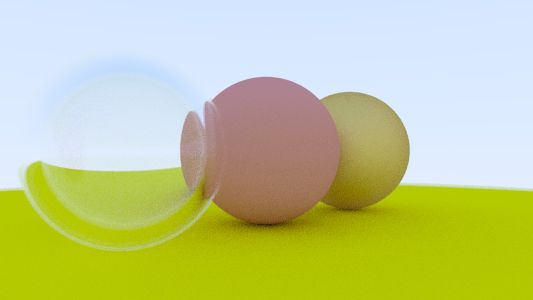
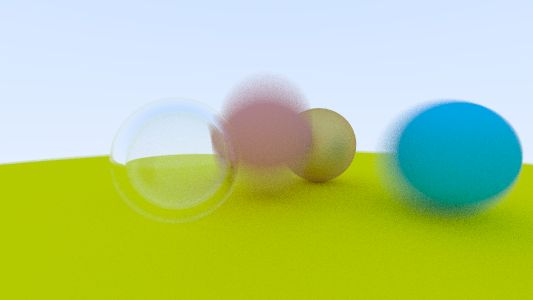
add moving sphere

diff --git a/nextweek/include/material.hpp b/nextweek/include/material.hpp
@@ -4,21 +4,27 @@
 #include "ray.hpp"
 #include "Color.hpp"
 
+#include <memory>
+
+using std::shared_ptr;
+
 struct scatter_info {
     const point3d scatter_point;
     const vec3d scatter_point_nm;
     const vec3d cast_ray_dir;
+    double ray_in_time;
+    
     Ray scatter_ray;
 
-    scatter_info(const point3d& p, const vec3d& nm, const vec3d& dir) noexcept
-    : scatter_point(p), scatter_point_nm(nm), cast_ray_dir(dir) {}
+    scatter_info(const point3d& p, const vec3d& nm, const vec3d& dir, const double t) noexcept
+    : scatter_point(p), scatter_point_nm(nm), cast_ray_dir(dir), ray_in_time(t) {}
 };
 
 struct dielectrics_scatter_info : scatter_info {
     const double refraction_ratio;
 
-    dielectrics_scatter_info(const point3d& p, const vec3d& nm, const vec3d& dir, const double rr) noexcept
-    : scatter_info(p, nm, dir), refraction_ratio(rr) {}
+    dielectrics_scatter_info(const point3d& p, const vec3d& nm, const vec3d& dir, const double t, const double rr) noexcept
+    : scatter_info(p, nm, dir, t), refraction_ratio(rr) {}
 };
 
 class Material {
@@ -27,14 +33,14 @@ protected:
 public:
     Material() = default;
     Material(Color a_c) noexcept : attenuation_coef(a_c) {}
-    virtual bool scatter(scatter_info* info) const = 0;
+    virtual bool scatter(shared_ptr<scatter_info>& info) const = 0;
     Color get_color_attenuation_coef() const { return attenuation_coef; }
 };
 
 class Lambertian : public Material {
 public:
     Lambertian(Color a_c) noexcept : Material(a_c) {}
-    bool scatter(scatter_info* info) const override {
+    bool scatter(shared_ptr<scatter_info>& info) const override {
         // one week 中 An Alternative Diffuse Formulation 说明正确的漫反射反射光线的方向是通过随机生成半球的方向得到，
         // 这里使用法线与随机单位球方向的向量和的方向近似，可能生成反正光线方向的概率不相同，不过个人感觉影响不大
         // vec3d diffuse_ray_dir = get_random_vec3d_in_hemisphere();
@@ -42,7 +48,7 @@ public:
         // 0向量特殊处理
         if (diffuse_ray_dir.is_zero_vec()) diffuse_ray_dir = info->scatter_point_nm;
         else diffuse_ray_dir.normalized();
-        info->scatter_ray = Ray(info->scatter_point, diffuse_ray_dir);
+        info->scatter_ray = Ray(info->scatter_point, diffuse_ray_dir, info->ray_in_time);
         return true;
     }
 };
@@ -51,10 +57,10 @@ class Metal : public Material {
     double fuzz;
 public:
     Metal(Color a_c, double fuzz_ = 0.) noexcept : Material(a_c), fuzz(fuzz_) {}
-    bool scatter(scatter_info* info) const override {
+    bool scatter(shared_ptr<scatter_info>& info) const override {
         vec3d reflect_ray_dir = info->cast_ray_dir - info->scatter_point_nm * 2 * dot(info->cast_ray_dir, info->scatter_point_nm);
         vec3d fuzzy_dir = reflect_ray_dir + get_random_vec3d(-1., 1.) * fuzz;
-        info->scatter_ray = Ray(info->scatter_point, fuzzy_dir.normalize());
+        info->scatter_ray = Ray(info->scatter_point, fuzzy_dir.normalize(), info->ray_in_time);
         return true;
     }
 };
@@ -70,9 +76,9 @@ public:
     Dielectrics(double n_ = 1.) noexcept : Material(Color(1, 1, 1)), n(n_) {}
 
     double get_refraction_eta() const { return n; }
-    bool scatter(scatter_info* tinfo) const {
+    bool scatter(shared_ptr<scatter_info>& tinfo) const override {
 
-        dielectrics_scatter_info* info = (dielectrics_scatter_info*) tinfo;
+        auto info = std::static_pointer_cast<dielectrics_scatter_info>(tinfo);
 
         double cos_theta = fmin(dot(vec3d() - info->cast_ray_dir, info->scatter_point_nm), 1.0);
         double sin_theta = sqrt(1 - cos_theta * cos_theta);
@@ -86,7 +92,7 @@ public:
             vec3d r_out_parallel = -sqrt(fabs(1.0 - r_out_perp.length2())) * info->scatter_point_nm;
             scatter_dir = r_out_perp + r_out_parallel;
         }
-        info->scatter_ray = Ray(info->scatter_point, scatter_dir.normalize());
+        info->scatter_ray = Ray(info->scatter_point, scatter_dir.normalize(), info->ray_in_time);
         return true;
     }
 };

diff --git a/nextweek/include/hittable.hpp b/nextweek/include/hittable.hpp
@@ -4,14 +4,12 @@
 #include "algebra.hpp"
 #include "ray.hpp"
 #include "material.hpp"
-#include <memory>
-
-using std::shared_ptr;
 
 class Hittable;
 
 struct hit_info{
     double t;
+    double ray_time; // 光线发出时间
     point3d point;
     bool inside_obj;
     vec3d normal;
@@ -31,13 +29,14 @@ public:
 };
 
 class Sphere : public Hittable {
+protected:
     point3d o;
     double r;
 public:
     Sphere() = default;
     Sphere(const point3d& o_, const double r_, std::shared_ptr<Material> m) noexcept 
     : Hittable(m), o(o_), r(r_) {}
-    point3d get_origin() const { return o; }
+    virtual point3d get_origin(const double) const { return o; }
     double get_radius() const { return r; }
     
     // ray.o + ray.dir * t == hit_point
@@ -46,7 +45,7 @@ public:
     // ray.dir^2 * t^2 + 2*ray.dir*(ray.o-o) * t + ((ray.o-o)^2 - r^2) == 0
     // 当 b^2 - 4ac >=0 时，t 有解
     bool hit(const Ray& ray, double t_min, double t_max, hit_info& ret) const override {
-        vec3d or = ray.o - o;
+        vec3d or = ray.o - get_origin(ray.time);
         double b = 2 * dot(ray.dir, or);
         double a = ray.dir.length2();
         double c = or.length2() - r * r;
@@ -60,7 +59,7 @@ public:
         }
         ret.t = t;
         ret.point = ray.at(t);
-        ret.normal = (ret.point - o).normalize();
+        ret.normal = (ret.point - get_origin(ray.time)).normalize();
         if (dot(ret.normal, ray.dir) > 0.) {
             ret.normal = vec3d() - ret.normal;
             ret.inside_obj = true;
@@ -70,7 +69,7 @@ public:
     }
 
     bool scatter(Ray& ray_out, const hit_info& hit) const override {
-        scatter_info* info;
+        shared_ptr<scatter_info> info;
         if (std::dynamic_pointer_cast<Dielectrics>(material)) {
             auto dielectrics_material = std::dynamic_pointer_cast<Dielectrics>(material);
             double refraction_ratio;
@@ -78,15 +77,29 @@ public:
             if ((hit.inside_obj || get_radius() < 0) && !(hit.inside_obj && get_radius() < 0)) refraction_ratio = dielectrics_material->get_refraction_eta() / global_air.get_refraction_eta();
             else refraction_ratio = global_air.get_refraction_eta() / dielectrics_material->get_refraction_eta();
             
-            info = new dielectrics_scatter_info(hit.point, hit.normal, hit.cast_ray_dir, refraction_ratio);
+            info = std::make_shared<dielectrics_scatter_info>(hit.point, hit.normal, hit.cast_ray_dir, hit.ray_time, refraction_ratio);
         }
-        else info = new scatter_info(hit.point, hit.normal, hit.cast_ray_dir);
+        else info = std::make_shared<scatter_info>(hit.point, hit.normal, hit.cast_ray_dir, hit.ray_time);
         material->scatter(info);
         ray_out = info->scatter_ray;
-
-        if (info != nullptr) delete info;
         return true;
     }
+};
+
+class MovingSphere : public Sphere {
+    vec3d o_move_dir; // 球心移动方向
+    double t1, t2; // 球心移动的开始结束时间
+public:
+    MovingSphere() = default;
+    MovingSphere(const double t1_, const point3d& o1, const double t2_, const point3d& o2,
+        const double r_, std::shared_ptr<Material> m) noexcept
+        : Sphere(o1, r_, m), o_move_dir(o2 - o1), t1(t1_), t2(t2_) {}
+    
+    point3d get_origin(const double time) const override {
+        if (std::abs(t1 - t2) < 0.00005) return o;
+        return o + ((time - t1) / (t2 - t1)) * o_move_dir;
+    }
+    double get_radius() const { return r; }
 };
 
 #endif

diff --git a/nextweek/config/config.hpp b/nextweek/config/config.hpp
@@ -110,7 +110,11 @@ public:
                     double lr = GetDouble(line);
                     std::getline(f, line);
                     double dist = GetDouble(line);
-                    camera = make_shared<Camera>(o, up_dir, look_at, vfov, lr, dist);
+                    std::getline(f, line);
+                    double t1 = GetDouble(line);
+                    std::getline(f, line);
+                    double t2 = GetDouble(line);
+                    camera = make_shared<Camera>(o, up_dir, look_at, vfov, lr, dist, t1, t2);
                 }
                 else if (line.compare("Lambertian") == 0) {
                     std::getline(f, line);
@@ -142,10 +146,30 @@ public:
                         objs.push_back(make_shared<Sphere>(o, r, material));
                     }
                 }
+                else if (line.compare("MovingSphere") == 0) {
+                    std::getline(f, line);
+                    point3d o1 = GetPoint3d(line);
+                    std::getline(f, line);
+                    point3d o2 = GetPoint3d(line);
+                    std::getline(f, line);
+                    double r = GetDouble(line);
+                    std::getline(f, line);
+                    double t1 = GetDouble(line);
+                    std::getline(f, line);
+                    double t2 = GetDouble(line);
+                    std::getline(f, line);
+                    int material_index = (int) GetDouble(line) -1 ;
+                    if (material_index < 0 || material_index >= materials.size()) std::cerr << "Sphere material error!\n";
+                    else {
+                        auto material = materials[material_index];
+                        objs.push_back(make_shared<MovingSphere>(t1, o1, t2, o2, r, material));
+                    }
+                }
             }
         }
 
         f.close();
+        std::cout << "read configuration end.\n";
     }
 
     shared_ptr<Camera>& GetCamera() { return camera; }

diff --git a/nextweek/include/camera.hpp b/nextweek/include/camera.hpp
@@ -11,14 +11,15 @@ struct Camera
     point3d look_at; // 相机看向的点
     double vfov; // 视野角度，vertical field-of-view in degrees，视锥顶角的一半
     double lens_r; // 透镜的半径
+    double t1, t2; // 快门的开始/结束时间
 
     vec3d cx, cy, cz;
 
-    Camera() noexcept : o(default_o), up_dir(default_up_dir), look_at(default_look_at), vfov(default_vfov), lens_r(1. )
+    Camera() noexcept : o(default_o), up_dir(default_up_dir), look_at(default_look_at), vfov(default_vfov), lens_r(1.), t1(0.), t2(0.)
     { set_view_transform_matrix((o - look_at).length()); }
     Camera(const point3d& o_, const vec3d& up_dir_, const point3d& look_at_, const double vfov_ = default_vfov,
-             const double lr = 1., const double dist_to_focus = 1.) noexcept
-    : o(o_), up_dir(up_dir_), look_at(look_at_), vfov(vfov_), lens_r(lr)
+             const double lr = 1., const double dist_to_focus = 1., const double t1_ = 0., const double t2_ = 0.) noexcept
+    : o(o_), up_dir(up_dir_), look_at(look_at_), vfov(vfov_), lens_r(lr), t1(t1_), t2(t2_)
     { set_view_transform_matrix(dist_to_focus); }
 
     point3d lower_left_corner;
@@ -43,7 +44,7 @@ struct Camera
         auto disk = (point3d(get_random(-1, 1), get_random(-1, 1), 0.)).normalize() * lens_r;
         vec3d offset = disk.x * cx + disk.y * cy;
         point3d ro = o + offset;
-        return Ray(ro, (vertical * u + horizontal * v + lower_left_corner - ro).normalize());
+        return Ray(ro, (vertical * u + horizontal * v + lower_left_corner - ro).normalize(), get_random(t1, t2));
     }
 };
 

diff --git a/nextweek/include/algebra.hpp b/nextweek/include/algebra.hpp
@@ -3,6 +3,8 @@
 
 #include <type_traits>
 
+constexpr double EPS = 0.000000001;
+
 template<typename T>
 struct vec3 {
     static_assert(std::is_same<T, int>::value ||
@@ -59,6 +61,10 @@ struct vec3 {
 
     vec3<T> normalize() const {
         double t = length();
+        if (t < EPS) {
+            std::cerr<<"/0\n";
+            return *this;
+        }
         return vec3<T>((double)x / t, (double)y / t, (double)z / t);
     }
     vec3<T>& normalized() {
@@ -68,7 +74,6 @@ struct vec3 {
     }
 
     bool is_zero_vec() const {
-        constexpr double EPS = 0.000000001;
         return std::abs(x) < EPS && std::abs(y) < EPS && std::abs(z) < EPS;
     }
 };

diff --git a/nextweek/include/ray.hpp b/nextweek/include/ray.hpp
@@ -7,8 +7,9 @@ struct Ray
 {
     point3d o; // 光源
     vec3d dir; // 方向
+    double time;  // 时间
     Ray() = default;
-    Ray(const point3d& o_, const vec3d& dir_) noexcept : o(o_), dir(dir_) {}
+    Ray(const point3d& o_, const vec3d& dir_, const double t_ = 0.) noexcept : o(o_), dir(dir_), time(t_) {}
 
     point3d at(const double t) const {
         return o + dir * t;

diff --git a/nextweek/src/main.cpp b/nextweek/src/main.cpp
@@ -21,6 +21,7 @@ bool world_hit(const Ray& ray, hit_info& hit) {
         }
     }
     hit.cast_ray_dir = ray.dir;
+    hit.ray_time = ray.time;
     return hit_flag;
 }
 
